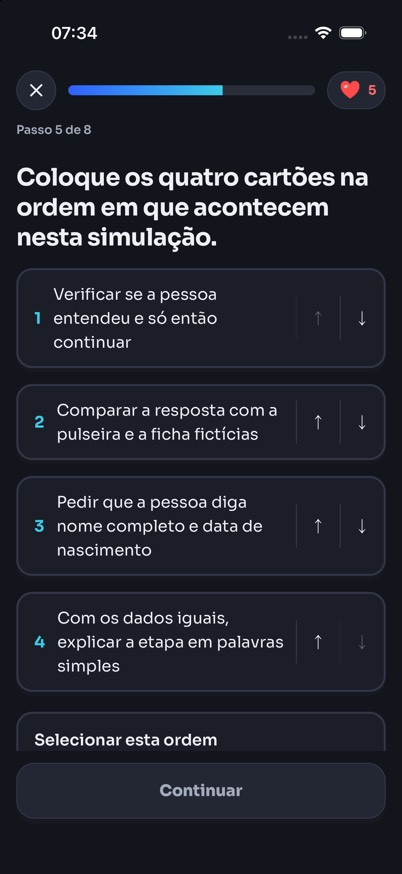
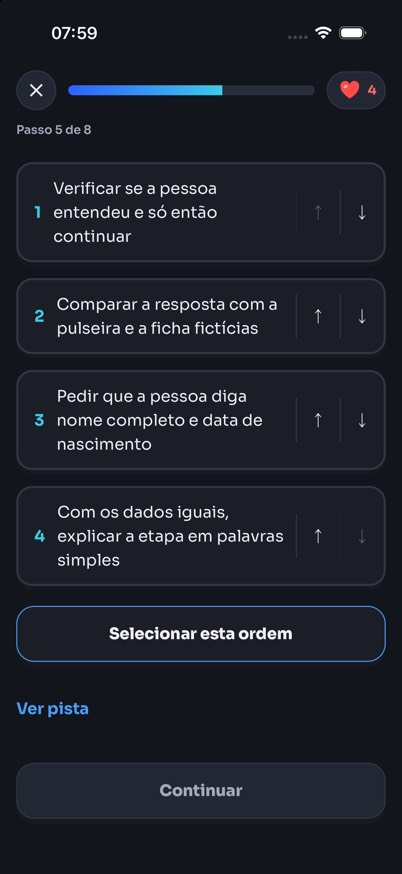
chore(ui): pendências menores do refinamento
- V/F: a afirmação perde o ponto final antes de "certo"/"errado".
- HomeScreen antiga mostra a sequência que vale hoje.
- style-literal-contract acusa `...typography.label` sem desligar a caixa
  alta, fora dos usos julgados em LABEL_USES.
- pieceRelief em ui/styles: um só lábio para alternativa, ficha, cartão de
  plano e item de ordenar.
- Capturas 11 e 12 refeitas com o botão de ordem atual.

diff --git a/radiant-app/src/features/subscription/components/PlanCard.tsx b/radiant-app/src/features/subscription/components/PlanCard.tsx
@@ -2,7 +2,7 @@ import React from 'react';
 import { StyleSheet, Text, View } from 'react-native';
 
 import { MotionPressable, usePressDescend } from '../../../ui/motion';
-import { radius, space, typography } from '../../../ui/styles';
+import { PIECE_LIP, pieceRelief, radius, space, typography } from '../../../ui/styles';
 import { galaxyColors, medalColors } from '../../../ui/theme';
 
 export type PlanCardProps = {
@@ -21,7 +21,6 @@ export type PlanCardProps = {
 };
 
 // Relevo da alternativa (`ChoiceOption`): lábio de 4 pt e face que desce 3 pt.
-const LIP = 4;
 
 /**
  * Cartão de escolha de plano da assinatura. Selecionado, a borda e o lábio
@@ -29,7 +28,7 @@ const LIP = 4;
  * ficam neutros.
  */
 export function PlanCard({ title, price, period, detail, selected, tone, onPress, disabled = false, testID }: PlanCardProps) {
-    const descend = usePressDescend(LIP - 1, disabled);
+    const descend = usePressDescend(PIECE_LIP - 1, disabled);
     const gold = tone === 'gold';
     const border = !selected ? galaxyColors.border : gold ? medalColors.gold.face : galaxyColors.navBlue;
     const lip = !selected ? galaxyColors.backgroundAlt : gold ? medalColors.gold.lip : medalColors.unit.lip;
@@ -59,8 +58,8 @@ export function PlanCard({ title, price, period, detail, selected, tone, onPress
 
 const styles = StyleSheet.create({
     // `flexGrow`, e não `flex: 1`: empilhado, dentro da rolagem, `flex: 1` zera a altura.
-    relief: { flexGrow: 1, paddingBottom: LIP },
-    lip: { position: 'absolute', top: LIP, bottom: 0, left: 0, right: 0, borderRadius: radius.rLg },
+    relief: { flexGrow: 1, ...pieceRelief(radius.rLg).wrap },
+    lip: pieceRelief(radius.rLg).lip,
     face: {
         flexGrow: 1,
         minHeight: 112,

diff --git a/radiant-app/src/features/lesson-flow/renderers/TrueFalseStepRenderer.tsx b/radiant-app/src/features/lesson-flow/renderers/TrueFalseStepRenderer.tsx
@@ -12,6 +12,9 @@ type Props = { payload: TrueFalsePayload; value?: string; onChange: (value: stri
  * Quando todas estão julgadas, o player confere o conjunto, cobra a vida uma
  * vez só se alguma estiver errada e anuncia o resultado.
  */
+/** A afirmação sem o ponto final, para emendar em outra frase sem "dose.: certo" nem "dose.. Você". */
+export const statementStem = (text: string): string => text.replace(/[.…\s]+$/u, '');
+
 export function TrueFalseStepRenderer({ payload, value, onChange, submitted = false }: Props) {
     const judged = decodeTrueFalseValue(value).slice(0, payload.statements.length);
     const current = payload.statements[judged.length];
@@ -42,7 +45,7 @@ export function TrueFalseStepRenderer({ payload, value, onChange, submitted = fa
                 const right = judged[index] === statement.isTrue;
                 return (
                     <View key={statement.id} style={f2Styles.column} accessible accessibilityLabel={
-                        `Afirmação ${index + 1}: ${statement.text}. Você marcou ${judged[index] ? 'certo' : 'errado'}. ${right ? 'Acertou.' : 'Não é isso.'} ${statement.explanation}`}>
+                        `Afirmação ${index + 1}: ${statementStem(statement.text)}. Você marcou ${judged[index] ? 'certo' : 'errado'}. ${right ? 'Acertou.' : 'Não é isso.'} ${statement.explanation}`}>
                         <Text style={f2Styles.body}>{statement.text}</Text>
                         <TapChip label={`${judged[index] ? 'Certo' : 'Errado'}: ${right ? 'acertou' : 'não é isso'}`}
                             accessibilityLabel={`Você marcou ${judged[index] ? 'certo' : 'errado'}`} disabled selected

diff --git a/radiant-app/src/components/ui/ChoiceOption.tsx b/radiant-app/src/components/ui/ChoiceOption.tsx
@@ -2,7 +2,7 @@ import React, { type ReactNode } from 'react';
 import { StyleSheet, Text, View, type LayoutChangeEvent } from 'react-native';
 import { CheckIcon, VerdictIcon } from '../../ui/components/VerdictIcons';
 import { MotionPressable, usePressDescend } from '../../ui/motion';
-import { radius, space, typography } from '../../ui/styles';
+import { PIECE_LIP, pieceRelief, radius, space, typography } from '../../ui/styles';
 import { feedbackColors, galaxyColors, medalColors } from '../../ui/theme';
 
 export type ChoiceOptionState = 'idle' | 'selected' | 'correct' | 'incorrect' | 'dimmed';
@@ -28,9 +28,8 @@ export type ChoiceOptionProps = {
 };
 
 // Mesmo relevo do `AppButton`, com lábio de 4 pt: face na frente, lábio atrás.
-const LIP = 4;
 // A face desce até 1 pt do fim do lábio, para a borda dele continuar visível.
-const PRESSED_OFFSET = LIP - 1;
+const PRESSED_OFFSET = PIECE_LIP - 1;
 
 // Face, borda e lábio por estado; sem opacidade, para o texto manter o contraste.
 const TONES: Record<ChoiceOptionState, { face: string; border: string; lip: string; text: string }> = {
@@ -91,8 +90,8 @@ const face = {
 } as const;
 
 const styles = StyleSheet.create({
-  relief: { paddingBottom: LIP },
-  lip: { position: 'absolute', top: LIP, bottom: 0, left: 0, right: 0, borderRadius: radius.rLg },
+  relief: pieceRelief(radius.rLg).wrap,
+  lip: pieceRelief(radius.rLg).lip,
   face,
   // Sem `null` na lista de estilos: o utilitário de teste do Reanimated não o aceita.
   faceStacked: { ...face, flexDirection: 'column', alignItems: 'stretch' },

diff --git a/radiant-app/src/features/lesson-flow/screens/LessonFlowScreen.flow.test.tsx b/radiant-app/src/features/lesson-flow/screens/LessonFlowScreen.flow.test.tsx
@@ -3334,7 +3334,7 @@ describe('Tarefa 3 — folha de retorno no rodapé', () => {
     fireEvent.press(screen.getByLabelText('Certo: O dosímetro reduz a dose.'));
     const folha = await conferir();
     expect(within(folha).getByRole('header', { name: 'Resposta incorreta. Vamos reforçar' })).toBeTruthy();
-    expect(within(folha).getByText('Resposta certa: A distância reduz a dose.: certo; O dosímetro reduz a dose.: errado')).toBeTruthy();
+    expect(within(folha).getByText('Resposta certa: A distância reduz a dose: certo; O dosímetro reduz a dose: errado')).toBeTruthy();
   });
 
   it('em marcar várias, a folha diz as certas separadas por ponto e vírgula', async () => {
@@ -3520,6 +3520,9 @@ describe('correctAnswerText: resposta certa em texto', () => {
       { id: 'b', text: 'Pode pular a checagem, se houver pressa', isTrue: false },
     ]))).toBe('O avental protege: certo; Pode pular a checagem, se houver pressa: errado');
     expect(correctAnswerText(tf([{ id: 'a', text: 'A dose é ajustada', isTrue: false }]))).toBe('A dose é ajustada: errado');
+    // O ponto final da afirmação não fica antes dos dois-pontos ("dose.: certo").
+    expect(correctAnswerText(tf([{ id: 'a', text: 'A distância reduz a dose.', isTrue: true }, { id: 'b', text: 'Basta o avental…', isTrue: false }])))
+      .toBe('A distância reduz a dose: certo; Basta o avental: errado');
   });
 
   it('múltipla seleção junta os rótulos certos por "; ", sem quebrar rótulo com vírgula', () => {

diff --git a/radiant-app/src/features/lesson-flow/renderers/TapChip.tsx b/radiant-app/src/features/lesson-flow/renderers/TapChip.tsx
@@ -3,7 +3,7 @@ import { Animated, StyleSheet, Text, View } from 'react-native';
 import { feedbackColors, galaxyColors, medalColors } from '../../../ui/theme';
 import { semanticColors } from '../../../ui/semantic-colors';
 import { MotionPressable, useCardEnter, usePressDescend, useScalePop } from '../../../ui/motion';
-import { radius, space, typography } from '../../../ui/styles';
+import { PIECE_LIP, pieceRelief, radius, space, typography } from '../../../ui/styles';
 import { VerdictIcon } from '../../../ui/components/VerdictIcons';
 
 /**
@@ -30,8 +30,7 @@ type TapChipProps = {
 };
 
 // Mesmo relevo da `ChoiceOption`: lábio de 4 pt atrás, face que desce até 1 pt do fim dele.
-const LIP = 4;
-const PRESSED_OFFSET = LIP - 1;
+const PRESSED_OFFSET = PIECE_LIP - 1;
 
 /** Botão de toque das famílias novas: alvo de 44 pt, ouro como evidência da escolha. */
 export function TapChip({ label, accessibilityLabel, accessibilityHint, onPress, selected = false, verdict, disabled = false, role = 'button', testID }: TapChipProps) {
@@ -93,8 +92,8 @@ export const f2Styles = StyleSheet.create({
 
 const styles = StyleSheet.create({
     enter: { gap: space.s3 },
-    relief: { paddingBottom: LIP },
-    lip: { position: 'absolute', top: LIP, bottom: 0, left: 0, right: 0, borderRadius: radius.rMd },
+    relief: pieceRelief(radius.rMd).wrap,
+    lip: pieceRelief(radius.rMd).lip,
     chip: {
         minHeight: 44,
         minWidth: 44,

diff --git a/radiant-app/src/features/lesson-flow/renderers/OrderingStepRenderer.tsx b/radiant-app/src/features/lesson-flow/renderers/OrderingStepRenderer.tsx
@@ -3,7 +3,7 @@ import { Pressable, StyleSheet, Text, View, useWindowDimensions } from 'react-na
 import type { OrderingPayload } from '../../../types/learningActivity';
 import { galaxyColors } from '../../../ui/theme';
 import { semanticColors } from '../../../ui/semantic-colors';
-import { radius, space, typography } from '../../../ui/styles';
+import { pieceRelief, radius, space, typography } from '../../../ui/styles';
 import { AppButton } from '../../../components/ui/AppButton';
 import { CheckIcon } from '../../../ui/components/VerdictIcons';
 import { decodeInteractionIdSequence, encodeInteractionIdSequence } from './InteractionAnswerValue';
@@ -102,9 +102,9 @@ const styles = StyleSheet.create({
     activity: { gap: space.s3 },
     prompt: { ...typography.h3, color: galaxy.textPrimary },
     list: { gap: space.s2 },
-    // Mesmo lábio de 4 pt da `ChoiceOption`; o item não desce porque quem se toca são as setas.
-    relief: { paddingBottom: 4 },
-    lip: { position: 'absolute', top: 4, bottom: 0, left: 0, right: 0, borderRadius: radius.rLg, backgroundColor: galaxyColors.backgroundAlt },
+    // Mesmo lábio das peças de resposta (`pieceRelief`); o item não desce porque quem se toca são as setas.
+    relief: pieceRelief(radius.rLg).wrap,
+    lip: { ...pieceRelief(radius.rLg).lip, backgroundColor: galaxyColors.backgroundAlt },
     itemRow: {
         minHeight: 60,
         flexDirection: 'row',

diff --git a/radiant-app/src/features/lesson-flow/screens/LessonFlowScreen.tsx b/radiant-app/src/features/lesson-flow/screens/LessonFlowScreen.tsx
@@ -10,6 +10,7 @@ import { LessonFlowService } from '../services/LessonFlowService';
 import { adaptLegacyBlock } from '../services/LegacyLessonAdapter';
 import { useLearningActivity } from '../hooks/useLearningActivity';
 import { ActivityInteractionRenderer } from '../renderers/ActivityRendererRegistry';
+import { statementStem } from '../renderers/TrueFalseStepRenderer';
 import { resolveRtgImage } from '../../student-checkpoints/batches/rtgImages';
 import type { LessonBlock } from '../../../types/lessonFlow';
 import type { LearningActivityV2, LearningInteractionV2 } from '../../../types/learningActivity';
@@ -111,7 +112,7 @@ export function correctAnswerText(interaction: LearningInteractionV2): string | 
             return options.filter(option => correctOptionIds.includes(option.id)).map(option => option.label).join('; ');
         }
         case 'true-false':
-            return interaction.payload.statements.map(statement => `${statement.text}: ${statement.isTrue ? 'certo' : 'errado'}`).join('; ');
+            return interaction.payload.statements.map(statement => `${statementStem(statement.text)}: ${statement.isTrue ? 'certo' : 'errado'}`).join('; ');
         case 'ordering': {
             const { items, correctOrder } = interaction.payload;
             return correctOrder.map(id => items.find(item => item.id === id)?.label ?? id).join('; ');

diff --git a/radiant-app/src/features/home/services/HomeDashboardService.ts b/radiant-app/src/features/home/services/HomeDashboardService.ts
@@ -1,3 +1,4 @@
+import { shownStreakDays } from '../../../types/gamification';
 import type {
   HomeCatalogLesson,
   HomeDashboardDependencies,
@@ -72,7 +73,7 @@ export class HomeDashboardService {
       greeting: resolveGreeting(this.dependencies.getDisplayName()),
       avatarInitials: resolveInitials(this.dependencies.getDisplayName()),
       dateLabel: new Intl.DateTimeFormat(this.dependencies.locale, { weekday: 'long', day: 'numeric', month: 'long' }).format(this.dependencies.now()),
-      streakDays: gamification.streakDays,
+      streakDays: shownStreakDays(gamification),
       totalXp: gamification.totalXp,
       hearts: { current: hearts.count, maximum: hearts.maximum, unlimited: hearts.unlimited },
       dailyGoal: { completed: dailyGoal.completedToday, target: dailyGoal.goalPerDay },

diff --git a/radiant-app/src/ui/styles.ts b/radiant-app/src/ui/styles.ts
@@ -126,6 +126,17 @@ export const typography = StyleSheet.create({
 // ============================================================================
 // LAYOUT STYLES
 // ============================================================================
+/**
+ * Relevo das peças de resposta (alternativa, ficha, cartão de plano, item de ordenar):
+ * o lábio é a mesma forma da face, atrás dela e `PIECE_LIP` abaixo. O botão tem o seu
+ * (`depth.lip`, em `AppButton`).
+ */
+export const PIECE_LIP = 4;
+export const pieceRelief = (borderRadius: number) => ({
+  wrap: { paddingBottom: PIECE_LIP },
+  lip: { position: 'absolute', top: PIECE_LIP, bottom: 0, left: 0, right: 0, borderRadius },
+}) as const;
+
 export const layout = StyleSheet.create({
     // Full-screen base
     screen: {

diff --git a/radiant-app/src/features/home/home.types.ts b/radiant-app/src/features/home/home.types.ts
@@ -41,7 +41,7 @@ export interface HomeDashboardDependencies {
   getCatalog(): Promise<{ lessons: HomeCatalogLesson[] }>;
   getNextActivity(): Promise<{ lessonId: string; nodeId: string | null; blockId: string | null } | null>;
   getDueLessonIds(): Promise<string[]>;
-  getGamification(): Promise<{ streakDays: number; totalXp: number }>;
+  getGamification(): Promise<{ streakDays: number; standingStreakDays?: number; totalXp: number }>;
   /** As vidas do cofre que a lição desconta (`heartsRepository`). */
   getHearts(): Promise<{ count: number; maximum: number; unlimited: boolean }>;
   getDailyGoal(): Promise<{ completedToday: number; goalPerDay: number }>;

diff --git a/radiant-app/src/features/home/services/HomeDashboardService.test.ts b/radiant-app/src/features/home/services/HomeDashboardService.test.ts
@@ -118,4 +118,9 @@ describe('HomeDashboardService', () => {
 
     expect(dashboard.hearts).toEqual({ current: 0, maximum: 5, unlimited: true });
   });
+
+  it('mostra a sequência que vale hoje, não a contagem guardada de uma sequência parada', async () => {
+    const service = new HomeDashboardService(createDependencies({ getGamification: async () => ({ streakDays: 5, standingStreakDays: 0, totalXp: 120 }) }));
+    expect((await service.getDashboard()).streakDays).toBe(0);
+  });
 });

diff --git a/docs/evidence/2026-11-refinamento/tarefa-14-pendencias-menores.md b/docs/evidence/2026-11-refinamento/tarefa-14-pendencias-menores.md
@@ -1,0 +1,51 @@
+# Tarefa 14 — pendências menores, fechadas em 2026-11-17
+
+Pedido do dono, a partir da lista de pendências da sessão. Feita pelo controlador
+(Claude Fable 5.2), sem subagente e sem revisor independente.
+
+## O que mudou
+
+1. **Capturas 11 e 12** refeitas com o botão de ordem atual (ver tarefa 13).
+2. **`HomeScreen` antiga:** o painel (`HomeDashboardService`) passa a mostrar
+   `shownStreakDays`, a sequência que vale hoje.
+3. **Relevo único:** `PIECE_LIP` e `pieceRelief(raio)` em `ui/styles.ts`. `ChoiceOption`,
+   `TapChip`, `PlanCard` e o item de ordenar deixaram de repetir a constante e os dois
+   estilos. `AppButton` (lábio de 5 pt, `depth.lip`) e a peça numerada do passo de
+   ensino (3 pt, redonda) ficaram como estão: são outras formas.
+4. **Guarda de estilo:** `style-literal-contract` acusa `...typography.label` espalhado
+   num estilo que não desliga a caixa alta no mesmo objeto. Os quatro usos julgados na
+   tarefa 6 estão em `LABEL_USES`, com contagem por arquivo e motivo; um uso a mais no
+   mesmo arquivo é acusado.
+5. **Verdadeiro ou falso:** `statementStem` tira o ponto final (e reticências) da
+   afirmação antes de emendá-la. "Resposta certa: A distância reduz a dose: certo", e o
+   rótulo lido deixa de ter "dose.. Você marcou".
+6. **Pasta `.superpowers/sdd/2026-11-16-refinamento-visual-1-6/`:** não apagada. A
+   condição era o merge, e a PR 84 estava aberta quando esta tarefa rodou.
+
+## Execução vermelha (antes do código), Node 20.20.2
+
+- `HomeDashboardService › mostra a sequência que vale hoje, não a contagem guardada de
+  uma sequência parada`
+- `correctAnswerText › verdadeiro ou falso lista cada afirmação com o veredito`
+  (asserção nova com ponto final e com reticências). A asserção da folha de erro que
+  fixava o texto "dose.: certo" foi trocada pelo texto certo.
+- Guarda, com `LABEL_USES` já exportada e a detecção ainda por fazer:
+  `not ok 16 - acusa a caixa alta que chega por ...typography.label` e
+  `not ok 17 - uso julgado passa até a contagem registrada; o excedente é acusado`,
+  as duas com `actual [] / expected ['label']`.
+
+Sem execução vermelha: o relevo único é refatoração, coberta pelos testes de lábio que
+já existiam (`ChoiceOption`, `TapChip`, `PlanCard`, ordenar). O uso de `statementStem`
+no rótulo de acessibilidade do `TrueFalseStepRenderer` não tem teste próprio; a função
+é testada pelo texto da resposta certa.
+
+## Execução verde
+
+284 suítes, 3.856 testes, na árvore da branch. Typecheck e lint sem erro; a guarda
+passa no app com os três arquivos de `LABEL_USES`.
+
+## Não provado
+
+- Nada desta tarefa foi visto em simulador, além das duas capturas refeitas.
+- A guarda só vê `...typography.label` escrito assim: um apelido
+  (`const t = typography.label`) ou outro papel com caixa alta escapam.
